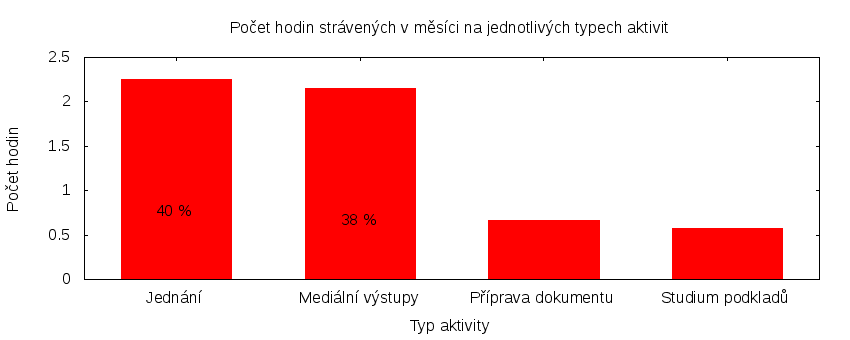
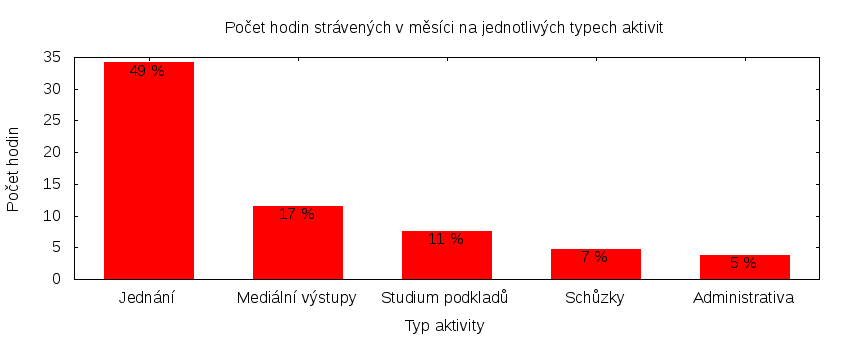
Doplnění odměn

diff --git a/odmeny/2016/03/mikulas-ferjencik/README.md b/odmeny/2016/03/mikulas-ferjencik/README.md
@@ -19,8 +19,17 @@ Významné úkoly
 
 Následující seznam zahrnuje všechny úkoly z [projektu krajského sdružení Praha][kspraha], které zabraly déle než 3 hodiny. Zastupitel si může tento seznam doplnit či upravit podle své úvahy tak, aby podával co nejlepší informaci o odvedené práci.
 
-Číslo  |   Název úkolu  |  Celkem
--------|----------------|-------:
+Číslo              |   Název úkolu                            |  Celkem           
+-------------------|------------------------------------------|------------------:
+[#2846][task2846]  |   Zasedání zastupitelstva 31. 3. 2016    |  [19.91][time2846]
+[#165][task165]    |   Mediální výstupy                       |  [10.81][time165] 
+[#686][task686]    |   Šíření informací a sdílení zkušeností  |  [7.66][time686]  
+[#2590][task2590]  |   Jednání klubu 2016                     |  [5.00][time2590] 
+[#597][task597]    |   E-mailová komunikace                   |  [3.16][time597]  
+[#1862][task1862]  |   nezveřejněný úkol                      |  [3.15][time1862] 
+[#2311][task2311]  |   Pirátské listy 2016                    |  [3.08][time2311] 
+[#2612][task2612]  |   Zastupitelská úterý za rok 2016        |  [3.00][time2612] 
+[#582][task582]    |   Podpora Kliniky                        |  [3.00][time582]  
 
 Můžete si zobrazit plný [přehled plněných úkolů][tasklist].
 
@@ -33,14 +42,14 @@ přihlášení zobrazí v projektovém systému.
 
 Rozsah činnosti                        | Počet hodin
 --------------                         | ----------:
-**A. Práce pro město**                 | [0.00][linktocityhours]
-**B. Práce pro stranu**                | 5.63
+**A. Práce pro město**                 | [15.25][linktocityhours]
+**B. Práce pro stranu**                | 54.54
 *z toho*                               |
-B.1 v projektu zastupitelstva          | [4.97][linktohomehours]
+B.1 v projektu zastupitelstva          | [53.88][linktohomehours]
 B.2 v ostatních projektech             | [0.66][linktootherhours]
-**Celkový počet hodin**                | 5.63
+**Celkový počet hodin**                | 69.79
 Dohodnutý rozsah práce                 | 126.00
-**Procento vytížení**                  | 4
+**Procento vytížení**                  | 55
 
 Grafické znázornění [odpracované doby dle aktivity][activitylist]:
 
@@ -56,20 +65,20 @@ Zastupitel má na základě zákona právo na odměnu a náhradu výdělku. Vedl
 
 Zdroj příjmu                           | Výše příjmu (Kč)
 -----------------                      | --------------:
-**A. Peníze od města**                 | 5486
+**A. Peníze od města**                 | 12348
 *z toho*                               |
 A.1 paušální odměna                    | 5486
-A.2 náhrada výdělku                    | 0
-**B. Peníze od strany**                | TMPPARTYMONEY
+A.2 náhrada výdělku                    | 6862
+**B. Peníze od strany**                | 3981
 *z toho*                               |
-B.1 pevná složka odměny                | 379
-B.2 variabilní složka odměny           | TMPVARMONEY
+B.1 pevná složka odměny                | 3679
+B.2 variabilní složka odměny           | 302
 *z toho*                               |
-B.2.1 odměna za dodržení rozsahu práce | 1
+B.2.1 odměna za dodržení rozsahu práce | 302
 B.2.2 odměna za přesčasy               | 0
-B.2.3 odměna za významné splněné úkoly | TMPTASKSMONEY
-B.2.4 odpočet za výhrady               | TMPSANCTIONS
-**Celkový měsíční příjem**             | TMPTOTALMONEY
+B.2.3 odměna za významné splněné úkoly | 0
+B.2.4 odpočet za výhrady               | 0
+**Celkový měsíční příjem**             | 16329
 
 Částky jsou uváděny vždy v hrubé výši, přičemž z paušální odměny odvádí město zálohu na daň z příjmu a zdravotní pojištění. Je dále odpovědností každého zastupitele, aby příjem zdanil a zaplatil zákonné pojištění.
 
@@ -77,6 +86,24 @@ B.2.4 odpočet za výhrady               | TMPSANCTIONS
 
 [kspraha]: https://redmine.pirati.cz/projects/kspraha
 [tasklist]: https://redmine.pirati.cz/projects/kspraha/time_entries/report?f[]=spent_on&f[]=user_id&op[user_id]==&f[]=&columns=month&criteria[]=issue&op[spent_on]=><&op[user_id]==&utf8=✓&v[spent_on][]=2016-03-01&v[spent_on][]=2016-03-31&v[user_id][]=17
+[task2846]: https://redmine.pirati.cz/issues/2846
+[time2846]:https://redmine.pirati.cz/issues/2846/time_entries?f[]=spent_on&f[]=user_id&f[]=&op[spent_on]=><&op[user_id]==&op[spent_on]=><&op[user_id]==&utf8=✓&v[spent_on][]=2016-03-01&v[spent_on][]=2016-03-31&v[user_id][]=17
+[task165]: https://redmine.pirati.cz/issues/165
+[time165]:https://redmine.pirati.cz/issues/165/time_entries?f[]=spent_on&f[]=user_id&f[]=&op[spent_on]=><&op[user_id]==&op[spent_on]=><&op[user_id]==&utf8=✓&v[spent_on][]=2016-03-01&v[spent_on][]=2016-03-31&v[user_id][]=17
+[task686]: https://redmine.pirati.cz/issues/686
+[time686]:https://redmine.pirati.cz/issues/686/time_entries?f[]=spent_on&f[]=user_id&f[]=&op[spent_on]=><&op[user_id]==&op[spent_on]=><&op[user_id]==&utf8=✓&v[spent_on][]=2016-03-01&v[spent_on][]=2016-03-31&v[user_id][]=17
+[task2590]: https://redmine.pirati.cz/issues/2590
+[time2590]:https://redmine.pirati.cz/issues/2590/time_entries?f[]=spent_on&f[]=user_id&f[]=&op[spent_on]=><&op[user_id]==&op[spent_on]=><&op[user_id]==&utf8=✓&v[spent_on][]=2016-03-01&v[spent_on][]=2016-03-31&v[user_id][]=17
+[task597]: https://redmine.pirati.cz/issues/597
+[time597]:https://redmine.pirati.cz/issues/597/time_entries?f[]=spent_on&f[]=user_id&f[]=&op[spent_on]=><&op[user_id]==&op[spent_on]=><&op[user_id]==&utf8=✓&v[spent_on][]=2016-03-01&v[spent_on][]=2016-03-31&v[user_id][]=17
+[task1862]: https://redmine.pirati.cz/issues/1862
+[time1862]:https://redmine.pirati.cz/issues/1862/time_entries?f[]=spent_on&f[]=user_id&f[]=&op[spent_on]=><&op[user_id]==&op[spent_on]=><&op[user_id]==&utf8=✓&v[spent_on][]=2016-03-01&v[spent_on][]=2016-03-31&v[user_id][]=17
+[task2311]: https://redmine.pirati.cz/issues/2311
+[time2311]:https://redmine.pirati.cz/issues/2311/time_entries?f[]=spent_on&f[]=user_id&f[]=&op[spent_on]=><&op[user_id]==&op[spent_on]=><&op[user_id]==&utf8=✓&v[spent_on][]=2016-03-01&v[spent_on][]=2016-03-31&v[user_id][]=17
+[task2612]: https://redmine.pirati.cz/issues/2612
+[time2612]:https://redmine.pirati.cz/issues/2612/time_entries?f[]=spent_on&f[]=user_id&f[]=&op[spent_on]=><&op[user_id]==&op[spent_on]=><&op[user_id]==&utf8=✓&v[spent_on][]=2016-03-01&v[spent_on][]=2016-03-31&v[user_id][]=17
+[task582]: https://redmine.pirati.cz/issues/582
+[time582]:https://redmine.pirati.cz/issues/582/time_entries?f[]=spent_on&f[]=user_id&f[]=&op[spent_on]=><&op[user_id]==&op[spent_on]=><&op[user_id]==&utf8=✓&v[spent_on][]=2016-03-01&v[spent_on][]=2016-03-31&v[user_id][]=17
 [activitylist]: https://redmine.pirati.cz/projects/kspraha/time_entries/report?columns=month&criteria[]=activity&f[]=spent_on&f[]=user_id&f[]=&op[spent_on]=><&op[user_id]==&utf8=✓&v[spent_on][]=2016-03-01&v[spent_on][]=2016-03-31&v[user_id][]=17
 
 [smlouva]: https://smlouvy.pirati.cz/smlouvy/2014/11/13/mikulas-ferjencik/index.html

diff --git a/odmeny/2016/03/ondrej-profant/README.md b/odmeny/2016/03/ondrej-profant/README.md
@@ -21,14 +21,15 @@ Následující seznam zahrnuje všechny úkoly z [projektu krajského sdružení
 
 Číslo              |   Název úkolu                                                   |  Celkem           
 -------------------|-----------------------------------------------------------------|------------------:
-[#933][task933]    |   Nový web Pirátů Praha                                         |  [20.50][time933] 
+[#933][task933]    |   Nový web Pirátů Praha                                         |  [21.00][time933] 
 [#2846][task2846]  |   Zasedání zastupitelstva 31. 3. 2016                           |  [19.34][time2846]
 [#2590][task2590]  |   Jednání klubu 2016                                            |  [6.60][time2590] 
 [#148][task148]    |   OpenData na magistrátu                                        |  [6.00][time148]  
-[#678][task678]    |   Komise pro ICT                                                |  [5.16][time678]  
-[#2612][task2612]  |   Zastupitelská úterý za rok 2016                               |  [4.50][time2612] 
+[#678][task678]    |   Komise ICT RHMP                                               |  [5.16][time678]  
+[#2612][task2612]  |   Zastupitelská úterý za rok 2016                               |  [5.00][time2612] 
 [#2308][task2308]  |   Zveřejnění faktur Magistrátu                                  |  [4.30][time2308] 
 [#2316][task2316]  |   Připomínkování strategického plánu hl. m. Prahy               |  [4.25][time2316] 
+[#597][task597]    |   E-mailová komunikace                                          |  [4.01][time597]  
 [#2575][task2575]  |   Schůze krajského předsednictva                                |  [3.75][time2575] 
 [#674][task674]    |   Výbor pro správu majetku a majetkové podíly (majetek)         |  [3.50][time674]  
 [#2926][task2926]  |   Schůzka s Alešem Šatánkem                                     |  [3.40][time2926] 
@@ -46,13 +47,13 @@ přihlášení zobrazí v projektovém systému.
 Rozsah činnosti                        | Počet hodin
 --------------                         | ----------:
 **A. Práce pro město**                 | [24.07][linktocityhours]
-**B. Práce pro stranu**                | 97.70
+**B. Práce pro stranu**                | 102.80
 *z toho*                               |
-B.1 v projektu zastupitelstva          | [90.15][linktohomehours]
+B.1 v projektu zastupitelstva          | [95.25][linktohomehours]
 B.2 v ostatních projektech             | [7.55][linktootherhours]
-**Celkový počet hodin**                | 121.77
+**Celkový počet hodin**                | 126.87
 Dohodnutý rozsah práce                 | 126.00
-**Procento vytížení**                  | 96
+**Procento vytížení**                  | 100
 
 Grafické znázornění [odpracované doby dle aktivity][activitylist]:
 
@@ -72,16 +73,16 @@ Zdroj příjmu                           | Výše příjmu (Kč)
 *z toho*                               |
 A.1 paušální odměna                    | 5486
 A.2 náhrada výdělku                    | 10831
-**B. Peníze od strany**                | TMPPARTYMONEY
+**B. Peníze od strany**                | 11934
 *z toho*                               |
-B.1 pevná složka odměny                | 6590
-B.2 variabilní složka odměny           | TMPVARMONEY
+B.1 pevná složka odměny                | 6934
+B.2 variabilní složka odměny           | 5000
 *z toho*                               |
-B.2.1 odměna za dodržení rozsahu práce | 921
+B.2.1 odměna za dodržení rozsahu práce | 1000
 B.2.2 odměna za přesčasy               | 0
-B.2.3 odměna za významné splněné úkoly | TMPTASKSMONEY
-B.2.4 odpočet za výhrady               | TMPSANCTIONS
-**Celkový měsíční příjem**             | TMPTOTALMONEY
+B.2.3 odměna za významné splněné úkoly | 4000
+B.2.4 odpočet za výhrady               | 0
+**Celkový měsíční příjem**             | 28251
 
 Částky jsou uváděny vždy v hrubé výši, přičemž z paušální odměny odvádí město zálohu na daň z příjmu a zdravotní pojištění. Je dále odpovědností každého zastupitele, aby příjem zdanil a zaplatil zákonné pojištění.
 
@@ -105,6 +106,8 @@ B.2.4 odpočet za výhrady               | TMPSANCTIONS
 [time2308]:https://redmine.pirati.cz/issues/2308/time_entries?f[]=spent_on&f[]=user_id&f[]=&op[spent_on]=><&op[user_id]==&op[spent_on]=><&op[user_id]==&utf8=✓&v[spent_on][]=2016-03-01&v[spent_on][]=2016-03-31&v[user_id][]=3
 [task2316]: https://redmine.pirati.cz/issues/2316
 [time2316]:https://redmine.pirati.cz/issues/2316/time_entries?f[]=spent_on&f[]=user_id&f[]=&op[spent_on]=><&op[user_id]==&op[spent_on]=><&op[user_id]==&utf8=✓&v[spent_on][]=2016-03-01&v[spent_on][]=2016-03-31&v[user_id][]=3
+[task597]: https://redmine.pirati.cz/issues/597
+[time597]:https://redmine.pirati.cz/issues/597/time_entries?f[]=spent_on&f[]=user_id&f[]=&op[spent_on]=><&op[user_id]==&op[spent_on]=><&op[user_id]==&utf8=✓&v[spent_on][]=2016-03-01&v[spent_on][]=2016-03-31&v[user_id][]=3
 [task2575]: https://redmine.pirati.cz/issues/2575
 [time2575]:https://redmine.pirati.cz/issues/2575/time_entries?f[]=spent_on&f[]=user_id&f[]=&op[spent_on]=><&op[user_id]==&op[spent_on]=><&op[user_id]==&utf8=✓&v[spent_on][]=2016-03-01&v[spent_on][]=2016-03-31&v[user_id][]=3
 [task674]: https://redmine.pirati.cz/issues/674

diff --git a/odmeny/2016/03/jakub-michalek/README.md b/odmeny/2016/03/jakub-michalek/README.md
@@ -25,7 +25,7 @@ Následující seznam zahrnuje všechny úkoly z [projektu krajského sdružení
 [#2612][task2612]  |   Zastupitelská úterý za rok 2016                                                          |  [6.50][time2612] 
 [#2590][task2590]  |   Jednání klubu 2016                                                                       |  [5.00][time2590] 
 [#2306][task2306]  |   Otevřené výběrové řízení na ekonomický systém na příspěvkovkách (náhrada malého GINISu)  |  [4.50][time2306] 
-[#678][task678]    |   Komise pro ICT                                                                           |  [3.66][time678]  
+[#678][task678]    |   Komise ICT RHMP                                                                          |  [3.66][time678]  
 [#797][task797]    |   Kontrolní výbor                                                                          |  [3.25][time797]  
 [#2083][task2083]  |   nezveřejněný úkol                                                                        |  [3.20][time2083] 
 [#2878][task2878]  |   Stanovisko k čínské misi                                                                 |  [3.00][time2878] 
@@ -68,16 +68,16 @@ Zdroj příjmu                           | Výše příjmu (Kč)
 *z toho*                               |
 A.1 paušální odměna                    | 5486
 A.2 náhrada výdělku                    | 7947
-**B. Peníze od strany**                | TMPPARTYMONEY
+**B. Peníze od strany**                | 5418
 *z toho*                               |
 B.1 pevná složka odměny                | 4046
-B.2 variabilní složka odměny           | TMPVARMONEY
+B.2 variabilní složka odměny           | 1372
 *z toho*                               |
 B.2.1 odměna za dodržení rozsahu práce | 372
 B.2.2 odměna za přesčasy               | 0
-B.2.3 odměna za významné splněné úkoly | TMPTASKSMONEY
-B.2.4 odpočet za výhrady               | TMPSANCTIONS
-**Celkový měsíční příjem**             | TMPTOTALMONEY
+B.2.3 odměna za významné splněné úkoly | 1000
+B.2.4 odpočet za výhrady               | 0
+**Celkový měsíční příjem**             | 18851
 
 Částky jsou uváděny vždy v hrubé výši, přičemž z paušální odměny odvádí město zálohu na daň z příjmu a zdravotní pojištění. Je dále odpovědností každého zastupitele, aby příjem zdanil a zaplatil zákonné pojištění.
 

diff --git a/odmeny/2016/03/adam-zabransky/README.md b/odmeny/2016/03/adam-zabransky/README.md
@@ -73,16 +73,16 @@ Zdroj příjmu                           | Výše příjmu (Kč)
 *z toho*                               |
 A.1 paušální odměna                    | 5486
 A.2 náhrada výdělku                    | 8280
-**B. Peníze od strany**                | TMPPARTYMONEY
+**B. Peníze od strany**                | 11285
 *z toho*                               |
 B.1 pevná složka odměny                | 7285
-B.2 variabilní složka odměny           | TMPVARMONEY
+B.2 variabilní složka odměny           | 4000
 *z toho*                               |
 B.2.1 odměna za dodržení rozsahu práce | 1000
 B.2.2 odměna za přesčasy               | 0
-B.2.3 odměna za významné splněné úkoly | TMPTASKSMONEY
-B.2.4 odpočet za výhrady               | TMPSANCTIONS
-**Celkový měsíční příjem**             | TMPTOTALMONEY
+B.2.3 odměna za významné splněné úkoly | 3000
+B.2.4 odpočet za výhrady               | 0
+**Celkový měsíční příjem**             | 25051
 
 Částky jsou uváděny vždy v hrubé výši, přičemž z paušální odměny odvádí město zálohu na daň z příjmu a zdravotní pojištění. Je dále odpovědností každého zastupitele, aby příjem zdanil a zaplatil zákonné pojištění.
 
